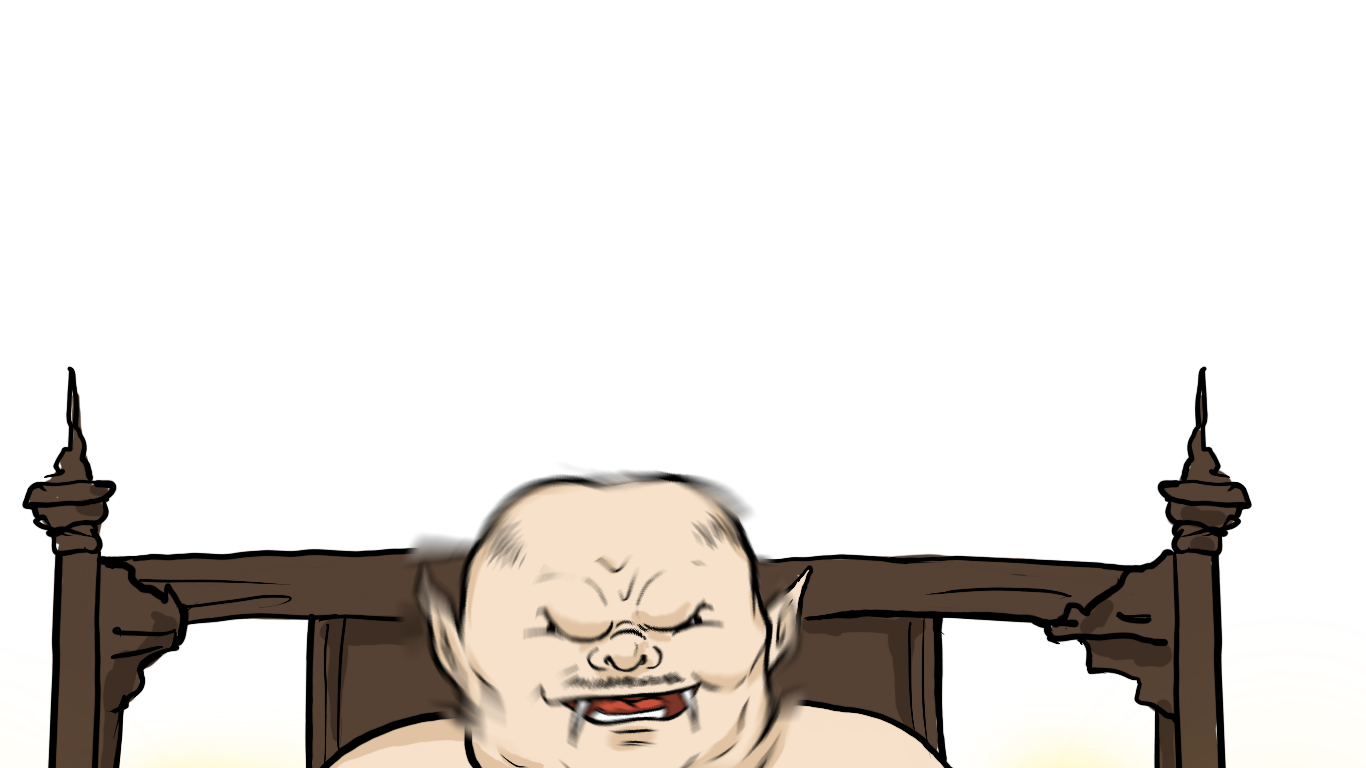
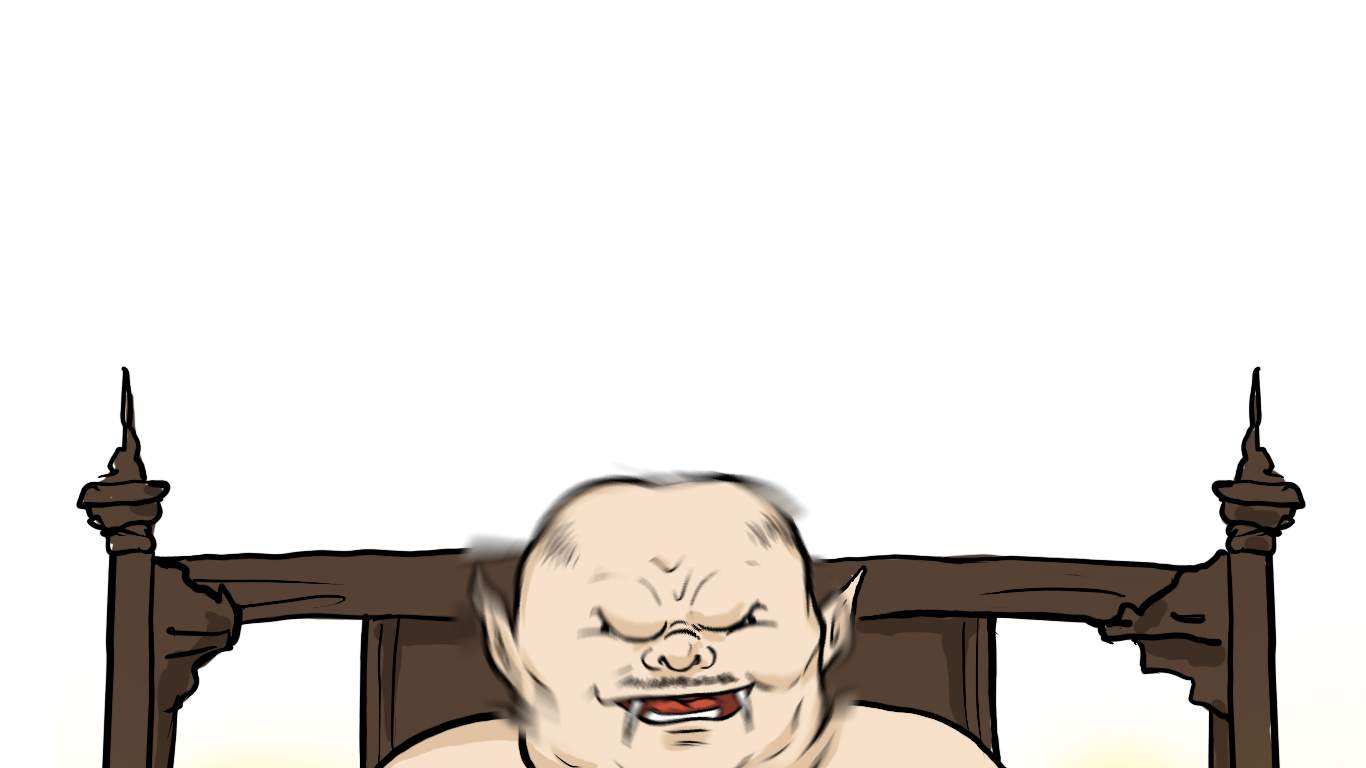
更新圖片與連結
更新圖片與連結

Changed region(s): [[0.0, 0.4688, 0.9531, 1.0]]

diff --git a/CitizensMiaokou2018/css/style.css b/CitizensMiaokou2018/css/style.css
@@ -13,15 +13,13 @@ ol,ul{
 .top-bn{
 	height: 768px;
 	background:url(../images/bnbg-desktop.jpg) no-repeat center top #000;
-	-webkit-background-size: 100%;
-	background-size: 100%;
 	margin:auto;
 	overflow: hidden;
 	position:relative;
 }
 
 .active-title{
-	background: url(../images/title.png) no-repeat center top;
+	background: url(../images/title01.png) no-repeat center top;
 	width: 100%;
 	height: 258px;
 	margin: 35px auto 0 auto;
@@ -29,10 +27,12 @@ ol,ul{
 	top: 0px;
 }
 .ghost-group{
-	height: 768px;
-	width: 1366px;
+	width: 100%;
+	height: 100%;
 	margin: auto;
-	position: relative;
+	position: absolute;
+	top:0;
+	left: 0;
 }
 
 .g01,.g02,.g03,.g04,.g05,.g06{
@@ -40,26 +40,26 @@ ol,ul{
 	width: 100%;
 	position: absolute;
 	top:0;
-	left: 0
+	left: 0;
 }
 
 .g01{
-	background: url(../images/g01.png) no-repeat center top;
+	background: url(../images/g01.png) no-repeat center bottom;
 }
 .g02{
-	background: url(../images/g02.png) no-repeat center top;
+	background: url(../images/g02.png) no-repeat right top;
 }
 .g03{
-	background: url(../images/g03.png) no-repeat center top;
+	background: url(../images/g03.png) no-repeat left top;
 }
 .g04{
-	background: url(../images/g04.png) no-repeat center top;
+	background: url(../images/g04.png) no-repeat left bottom;
 }
 .g05{
-	background: url(../images/g05.png) no-repeat center top;
+	background: url(../images/g05.png) no-repeat left bottom;
 }
 .g06{
-	background: url(../images/g06.png) no-repeat center top;
+	background: url(../images/g06.png) no-repeat right center;
 }
 
 .top-bn .look-btn{
@@ -72,6 +72,7 @@ ol,ul{
 	text-align: center;
 	border:6px solid #000;
 	border-radius: 15px;
+	box-sizing: border-box;
 }
 .video{
 	position: relative;
@@ -107,7 +108,9 @@ ol,ul{
 	width: 100%;
 	max-width: 300px;
 }
-
+.active-txt ol li span{
+	font-size: 13px;
+}
 .atxt{
 	max-width: 640px;
 	margin:auto;
@@ -161,7 +164,7 @@ ol,ul{
 }
 
 
-.look-btn{
+.look-btn,.fake-btn{
 	display: block;
 	color: #000;
 	background: yellow;
@@ -171,4 +174,68 @@ ol,ul{
 	margin: auto;
 	padding:7px;
 	margin-bottom: 15px;
+}
+.fake-btn{
+	border: 3px solid #000;
+}
+
+
+@media only screen and (max-width: 960px){
+	.active-title{
+	background: url(../images/title02.png) no-repeat center top;
+	width: 420px;
+	height: 100vh;
+	left: 50%;
+	margin-left: -210px;
+	-webkit-background-size: 100%;
+	background-size: 100%;
+}
+	.top-bn .look-btn{
+	top: 380px;
+}
+.active-txt ol li {
+	width: 25%;
+}
+
+}
+
+
+@media only screen and (max-width: 800px){
+.prd{
+	display: block;
+	width: 100%;
+	margin-bottom: 30px;
+}
+}
+
+@media only screen and (max-width: 520px){
+	.active-title{
+	background: url(../images/title02.png) no-repeat center top;
+	width: 280px;
+	left: 50%;
+	margin-left: -140px;
+	-webkit-background-size: 100%;
+	background-size: 100%;
+}
+	.top-bn .look-btn{
+	top: 280px;
+}
+	.ctxt {
+	font-size: 1em;
+}
+
+.atxt h2{
+	font-size: 1.2em;
+}
+
+.active-txt ol li {
+	width: 50%;
+}
+
+}
+
+@media only screen and (max-width: 415px){
+	.atxt li br{
+		display: none;
+	}
 }

diff --git a/CitizensMiaokou2018/index.html b/CitizensMiaokou2018/index.html
@@ -25,7 +25,7 @@
 					<ul>
 						<li>8/11(農曆7/1)-9/9(農曆7/30)</li>
 						<li>於鬼門開起的每日早課（早上八點至中午十二點）<br>進行線上直播超渡，敬請廟友們一同參與<br>用誠心感化台灣的魑魅魍魎，洗淨台灣～
-							<a href="" class="look-btn">我要看線上超渡</a>
+							<a href="https://www.youtube.com/channel/UC2wxIB7JDpbop3fDHHuVjkw/live" class="look-btn" target="_blank">我要看線上超渡</a>
 							<a href="#buy" class="look-btn">我要支持</a>
 						</li>
 							<li>廟口本年度重點超渡 台灣精怪如下
@@ -33,14 +33,14 @@
 						</ul>
 					</div>
 					<ol>
-						<li><span>血汗功德石怪</span><img src="images/card.jpg" alt=""></li>
-						<li><span>金融九頭蛇怪</span><img src="images/card.jpg" alt=""></li>
-						<li><span>亞泥天坑魚怪</span><img src="images/card.jpg" alt=""></li>
-						<li><span>體邪肥油怪</span><img src="images/card.jpg" alt=""></li>
-						<li><span>台灣吸血樹妖</span><img src="images/card.jpg" alt=""></li>
-						<li><span>五毒魔神仔</span><img src="images/card.jpg" alt=""></li>
-						<li><span>消防吞焰鬼</span><img src="images/card.jpg" alt=""></li>
-						<li><span>鄉愿懶唏鬼</span><img src="images/card.jpg" alt=""></li>
+						<li><span>血汗功德石怪</span><img src="images/card01.jpg" alt=""></li>
+						<li><span>金融九頭蛇怪</span><img src="images/card02.jpg" alt=""></li>
+						<li><span>亞泥天坑魚怪</span><img src="images/card03.jpg" alt=""></li>
+						<li><span>體邪肥油怪</span><img src="images/card04.jpg" alt=""></li>
+						<li><span>台灣吸血樹妖</span><img src="images/card05.jpg" alt=""></li>
+						<li><span>五毒魔神仔</span><img src="images/card06.jpg" alt=""></li>
+						<li><span>消防吞焰鬼</span><img src="images/card07.jpg" alt=""></li>
+						<li><span>鄉愿懶唏鬼</span><img src="images/card08.jpg" alt=""></li>
 					</ol>
 				</section>
 			</div>
@@ -49,19 +49,21 @@
 					<h2 class="tt02">公民廟口普渡禮包</h2>
 				</div>
 				<section class="pd01 prd">
-					<a href="">
+					<a href="https://cic.backme.tw/checkout/347/4765?locale=zh-TW" target="_blank">
 						<h3>廟口三魅水懺誅惡鬼禮包</h3>
 						<p class="stxt">符咒卡+精怪卡+隨手袋</p>
 						<p>487元 / 每月</p>
-						<img src="images/product.jpg" alt="">
+						<img src="images/product01.jpg" alt="">
+						<p class="fake-btn">立刻支持<p/>
 					</a>
 				</section>
 				<section class="pd02 prd">
-					<a href="">
+					<a href="https://cic.backme.tw/checkout/347/4766?locale=zh-TW" target="_blank">
 						<h3>天在看怒目金剛鏟天魔禮包</h3>
 						<p class="stxt">符咒卡+精怪卡+兵團監督筆記本+隨手袋</p>
 						<p>987元 / 每月</p>
-						<img src="images/product.jpg" alt="">
+						<img src="images/product02.jpg" alt="">
+						<p class="fake-btn">立刻支持<p/>
 					</a>
 				</section>
 			</div>
